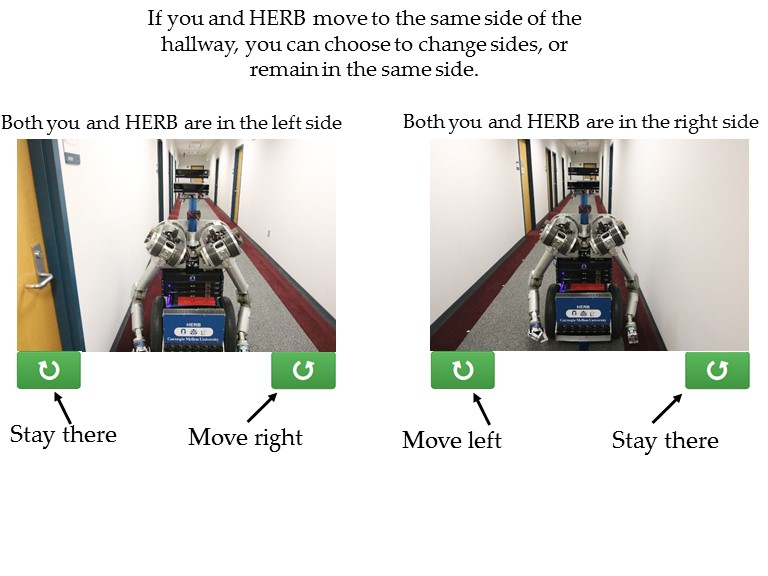
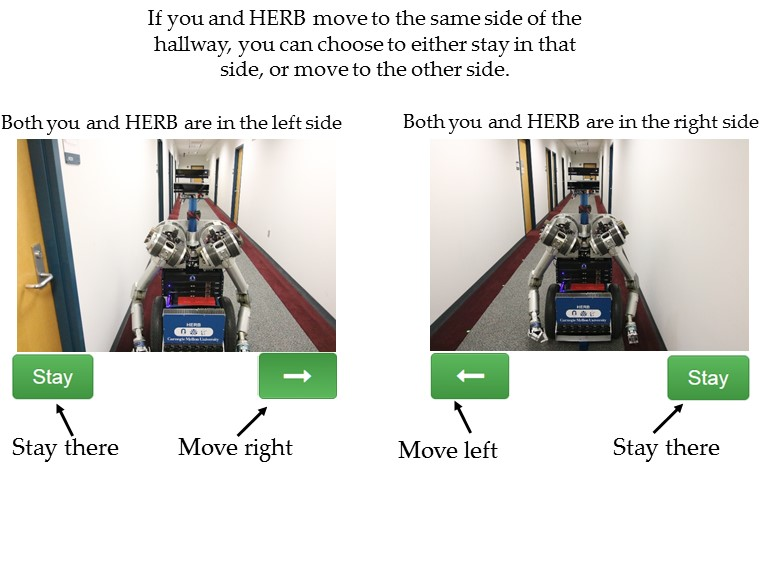
changed instructions

diff --git a/tableturn.html b/tableturn.html
@@ -39,11 +39,11 @@
     <p class="text-danger hide">Please answer the question</p>
     <div class="radio" style="display:none;">
       <label><input type="radio" name=1 value="move_right">I would like to move to the right side of the hallway (move to the right by pressing the <strong>RIGHT</strong> button 
-	  <img src="images/button_ccw.png" alt="counter-clockwise" width="44" height="26">)</label>
+	  <img src="images/move-right.png" alt="counter-clockwise" width="44" height="26">)</label>
     </div> 
     <div class="radio" style="display:none;">
       <label><input type="radio" name=1 value="move_left">I would like to move to the left side of the hallway (move to the left by pressing the <strong>LEFT</strong> button 
-	  <img src="images/button_cw.png" alt="clockwise" width="44" height="26">)</label>
+	  <img src="images/move-left.png" alt="clockwise" width="44" height="26">)</label>
     </div> 
     
   
